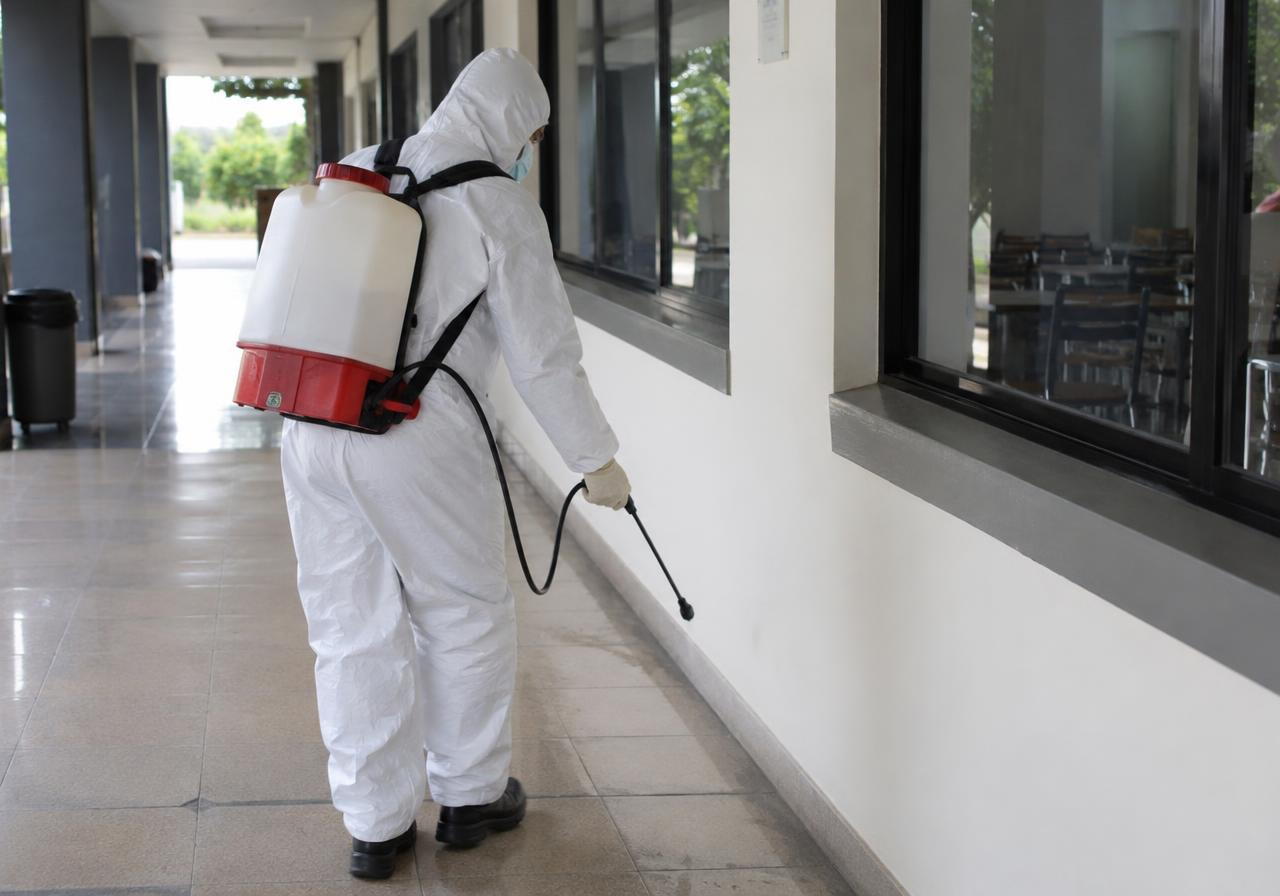
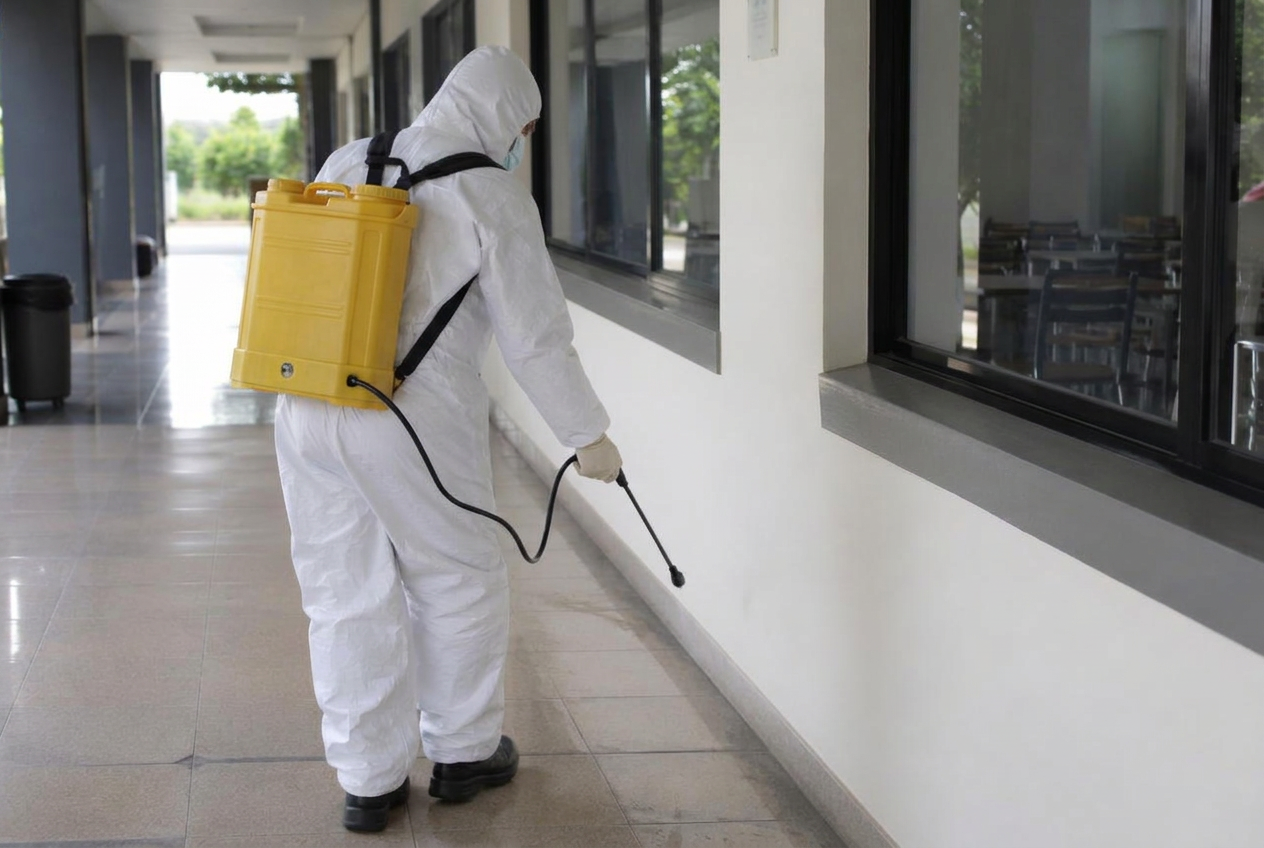
Changes

diff --git a/src/routes/testimonials.tsx b/src/routes/testimonials.tsx
@@ -19,7 +19,7 @@ export const Route = createFileRoute("/testimonials")({
 
 const meta = [
   { name: "Selamawit Tadesse", org: "Bole Corporate Tower" },
-  { name: "Daniel Bekele", org: "Summit Condominium Community" },
+  { name: "Daniel Bekele", org: "Private Residential Client" },
   { name: "Hanna Mekonnen", org: "Sarbet Business Center" },
   { name: "Yonas Alemu", org: "CMC Residences" },
   { name: "Mahlet Girma", org: "Addis Boutique Hotel" },

diff --git a/roadmap.md b/roadmap.md
@@ -1,0 +1,7 @@
+# Roadmap
+- [x] Realistic cleaning photo
+- [x] Pest control sprayer as yellow jerrycan
+- [x] Realistic events photo
+- [x] Contact links / email go directly to company email
+- [x] Rename Daniel Bekele org to a neutral fictional name
+- [ ] Overall "cleaner, simpler" design polish — needs specifics from user
